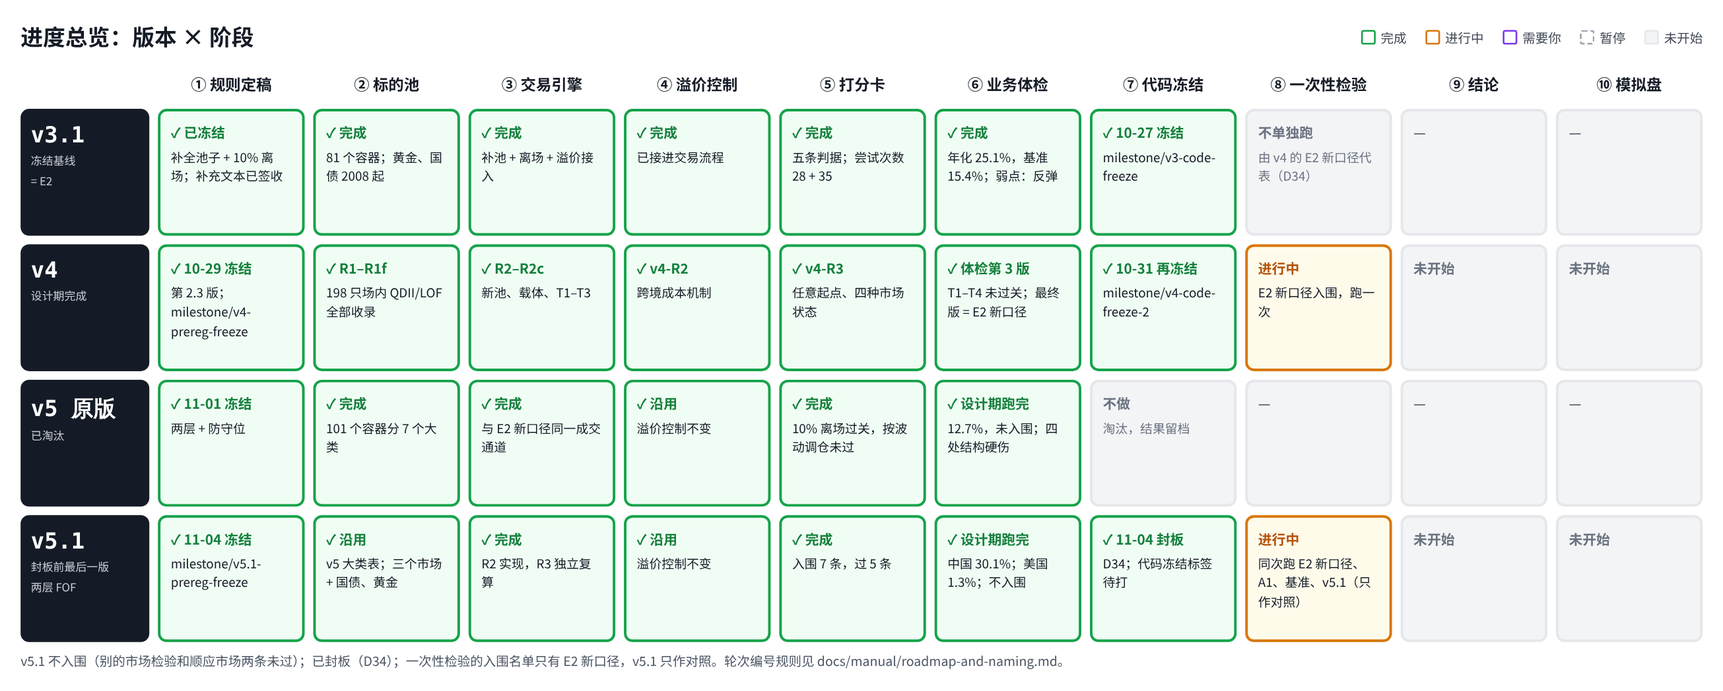
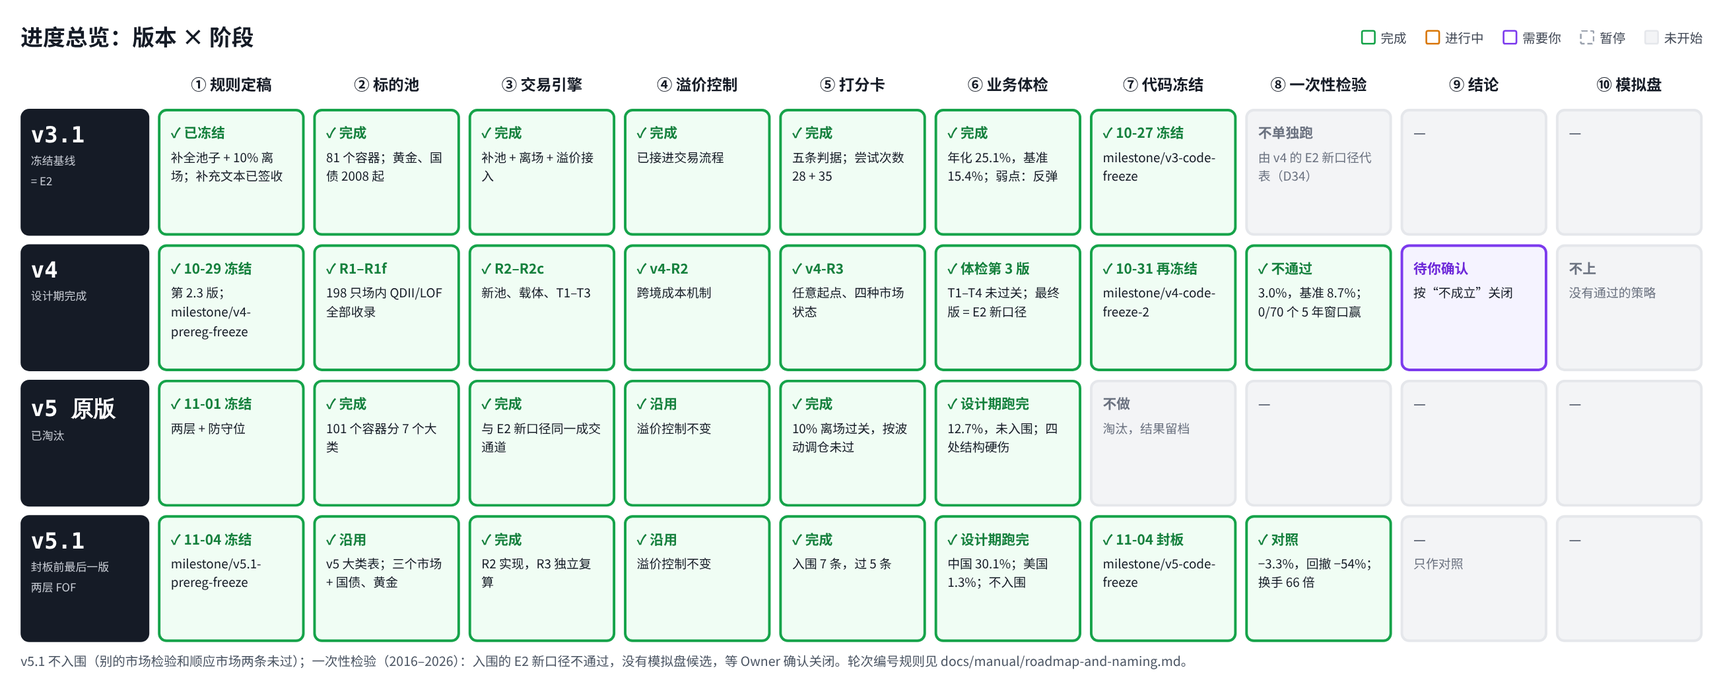
一次性检验报告：E2 新口径不通过；看板同步
只读 Reviewer 签收的 results/v5/oneshot，不重跑。另记：57 只场外基金净值只到 2015-12-31，影响能买到的池子的 A1、v5.1。

Claude-Session: https://claude.ai/code/session_01PmXaEwvnhMrSzwWPeiEpbL

diff --git a/results/v5/report/charts.py b/results/v5/report/charts.py
@@ -1,0 +1,85 @@
+"""一次性检验报告的图（只读 Reviewer 签收的 results/v5/oneshot，不重跑）。
+用法：python results/v5/report/charts.py docs/assets/v5-oneshot
+"""
+import sys, pathlib, json
+ROOT = pathlib.Path(__file__).resolve().parents[3]
+import pandas as pd, numpy as np
+import matplotlib; matplotlib.use('Agg'); import matplotlib.pyplot as plt
+plt.rcParams.update({'font.family': ['Noto Sans CJK SC'], 'axes.unicode_minus': False, 'axes.spines.top': False, 'axes.spines.right': False, 'font.size': 11.5, 'axes.edgecolor': '#9ca3af'})
+INK, MUTED, BLUE, GREY, BAD, GOOD, A1C, TEAL, PURP = '#151b26', '#5d6676', '#1d4ed8', '#9ca3af', '#c2410c', '#15803d', '#d97706', '#0d9488', '#7c3aed'
+OUT = pathlib.Path(sys.argv[1]); O = ROOT / 'results/v5/oneshot'
+def title(fig, t, s):
+    h = fig.get_figheight(); fig.text(.06, 1 + .42 / h, t, fontsize=14.5, weight='bold', color=INK); fig.text(.06, 1 + .12 / h, s, fontsize=10.5, color=MUTED)
+def net(p): return pd.read_csv(p, parse_dates=['date']).set_index('date').net
+S = pd.DataFrame({'E2 新口径': net(O / 'index/E2-B0/net.csv'), 'A1': net(O / 'index/A1/net.csv'), 'A2': net(O / 'index/A2/net.csv'),
+                  'v5.1（对照）': net(O / 'index/v5.1-对照/net.csv'), '基准': net(O / 'benchmarks/BM-main/net.csv'), '沪深300': net(O / 'benchmarks/HS300/net.csv')}).fillna(0)
+cols = {'E2 新口径': BLUE, 'A1': A1C, 'A2': TEAL, 'v5.1（对照）': BAD, '基准': INK, '沪深300': GREY}
+# o1 净值和回撤
+nav = (1 + S).cumprod()
+fig, (ax, bx) = plt.subplots(2, 1, figsize=(13, 6.4), sharex=True, gridspec_kw={'height_ratios': [2.2, 1]})
+for c in nav:
+    lw = 3 if c == 'E2 新口径' else (2.2 if c == '基准' else 1.6)
+    ls = '--' if c == '沪深300' else '-'
+    ax.plot(nav.index, nav[c], color=cols[c], lw=lw, ls=ls)
+    y = nav[c].iloc[-1]; off = {'A1': -.08, '基准': .06, 'A2': 0, 'E2 新口径': -.06, '沪深300': .06}.get(c, 0)
+    ax.text(nav.index[-1] + pd.Timedelta(days=40), y + off, f'{c} {y:.2f} 倍', color=cols[c], fontsize=10.5, va='center', weight='bold' if c in ('E2 新口径', '基准') else None)
+    dd = nav[c] / nav[c].cummax() - 1; bx.plot(dd.index, dd * 100, color=cols[c], lw=lw * .7, ls=ls)
+ax.axhline(1, color=GREY, lw=.8); ax.set_ylabel('净值（2016 年初 = 1）', color=MUTED); ax.grid(axis='y', alpha=.22); ax.set_xlim(nav.index[0], nav.index[-1] + pd.Timedelta(days=620))
+bx.set_ylabel('回撤 %', color=MUTED); bx.grid(axis='y', alpha=.22)
+ax.set_title('① 净值', loc='left', fontsize=12.5, weight='bold', color=INK); bx.set_title('② 回撤', loc='left', fontsize=12.5, weight='bold', color=INK)
+title(fig, '2016–2026：E2 新口径年化 3.0%，基准 8.7%；回撤最浅，但钱几乎没涨',
+      '能排名的池子（过关判定用这个），扣费后，2016-01-04 → 2026-09-30。基准 = 70% 沪深300 + 15% 纳指100 + 15% 标普500，人民币全收益。')
+fig.tight_layout(); fig.savefig(OUT / 'o1-nav.png', dpi=200, bbox_inches='tight', facecolor='white'); plt.close(fig)
+# o2 逐年超额
+yr = (1 + S).groupby(S.index.year).prod() - 1
+ex = yr[['E2 新口径', 'A1']].sub(yr['基准'], axis=0) * 100
+fig, ax = plt.subplots(figsize=(13, 4.4)); x = np.arange(len(ex)); w = .38
+for j, (c, col) in enumerate((('E2 新口径', BLUE), ('A1', A1C))):
+    b = ax.bar(x + (j - .5) * w, ex[c], w, color=col, label=c)
+    if c == 'E2 新口径':
+        for xi, v in zip(x, ex[c]): ax.text(xi - .5 * w, v + (1 if v >= 0 else -1), f'{v:+.0f}', ha='center', va='bottom' if v >= 0 else 'top', fontsize=9.5, color=BLUE, weight='bold')
+ax.axhline(0, color=INK, lw=.9); ax.set_xticks(x); ax.set_xticklabels([f'{y}' + ('\n(到 9 月)' if y == 2026 else '') for y in ex.index]); ax.set_ylabel('比基准多（少）赚，百分点', color=MUTED); ax.grid(axis='y', alpha=.22); ax.legend(frameon=False, loc='lower left')
+title(fig, 'E2 新口径 11 年里只赢了 2018、2022 两个熊市年（和 2026 前九个月）；大涨的年份都输',
+      '每年 E2 新口径（蓝）、A1（橙）减基准的收益。能排名的池子，扣费后。')
+fig.tight_layout(); fig.savefig(OUT / 'o2-yearly.png', dpi=200, bbox_inches='tight', facecolor='white'); plt.close(fig)
+# o3 E2 的仓位：风险、国债、黄金、现金
+h = pd.read_csv(O / 'index/E2-B0/held.csv', parse_dates=['date']).set_index('date')
+bond = [c for c in h if c.startswith('cgb') or '债' in c]
+E = pd.DataFrame({'现金': h.cash, '国债': h[bond].sum(axis=1), '黄金': h['gold']}); E['风险资产'] = 1 - E.sum(axis=1)
+Ey = E.groupby(E.index.year).mean() * 100
+fig, ax = plt.subplots(figsize=(13, 4.6)); bottom = np.zeros(len(Ey))
+for c, col in (('风险资产', BLUE), ('国债', '#93c5fd'), ('黄金', '#fcd34d'), ('现金', '#e5e7eb')):
+    ax.bar(Ey.index, Ey[c], bottom=bottom, color=col, label=c, width=.7)
+    if c == '风险资产':
+        for xi, v in zip(Ey.index, Ey[c]): ax.text(xi, 6, f'{v:.0f}%', ha='center', color='white', fontsize=10, weight='bold')
+    bottom += Ey[c].values
+bx = ax.twinx(); bx.plot(yr.index, yr['基准'] * 100, color=INK, lw=2, marker='o'); bx.set_ylabel('基准当年收益 %（黑线）', color=INK); bx.spines['right'].set_visible(True); bx.axhline(0, color=GREY, lw=.6, ls=':')
+ax.set_ylabel('E2 新口径平均仓位 %', color=MUTED); ax.set_ylim(0, 100); ax.legend(frameon=False, ncol=4, loc='upper left', bbox_to_anchor=(0, -.08))
+title(fig, '为什么输：国债常年占三成，基准大涨的 2019 年风险资产只有 46%',
+      'E2 新口径每年平均持仓结构（能排名的池子）。“涨幅 ÷ 波动”的尺子让波动小的国债排到股票前面。')
+fig.tight_layout(); fig.savefig(OUT / 'o3-exposure.png', dpi=200, bbox_inches='tight', facecolor='white'); plt.close(fig)
+# o4 设计期 vs 检验期：相对基准的年化超额
+H = json.loads((ROOT / 'results/v5.1/report/health.json').read_text())['index']
+cg = lambda r: ((1 + r).prod() ** (252 / len(r)) - 1) * 100
+cur = {k: cg(S[k]) - cg(S['基准']) for k in ('E2 新口径', 'A1', 'A2', 'v5.1（对照）')}
+d = {'E2 新口径': (H['E2 新口径']['S1'] - 22.3, H['E2 新口径']['S2'] - 9.4), 'A1': (H['A1']['S1'] - 22.3, H['A1']['S2'] - 9.4),
+     'A2': (14.5 - 22.3, 3.5 - 9.4), 'v5.1（对照）': (H['v5.1']['S1'] - 22.3, H['v5.1']['S2'] - 9.4)}
+fig, ax = plt.subplots(figsize=(13, 4.6)); x = np.arange(4); w = .26; names = list(d)
+for j, (lab, col) in enumerate((('2006–2010（设计期）', '#cbd5e1'), ('2011–2015（设计期）', '#93c5fd'), ('2016–2026（一次性检验）', BLUE))):
+    vals = [d[k][j] if j < 2 else cur[k] for k in names]
+    ax.bar(x + (j - 1) * w, vals, w, color=col, label=lab)
+    for xi, v in zip(x, vals): ax.text(xi + (j - 1) * w, v + (.5 if v >= 0 else -.5), f'{v:+.1f}', ha='center', va='bottom' if v >= 0 else 'top', fontsize=9.5, color=INK if j == 2 else MUTED, weight='bold' if j == 2 else None)
+ax.axhline(0, color=INK, lw=.9); ax.set_xticks(x); ax.set_xticklabels(names); ax.set_ylabel('相对基准的年化超额，百分点', color=MUTED); ax.grid(axis='y', alpha=.22); ax.legend(frameon=False, loc='lower left')
+title(fig, '设计期的优势没有延续：四个策略到 2016 年以后全部跑输基准',
+      '能排名的池子，扣费后。每组三根柱 = 前五年、后五年、一次性检验段，各自相对同期基准的年化超额。')
+fig.tight_layout(); fig.savefig(OUT / 'o4-decay.png', dpi=200, bbox_inches='tight', facecolor='white'); plt.close(fig)
+# o5 每个起点持有 5 年
+fig, ax = plt.subplots(figsize=(13, 4.2))
+for a, c, lw in (('E2-B0', BLUE, 2.6), ('A1', A1C, 1.8), ('A2', TEAL, 1.6)):
+    w5 = pd.read_csv(O / f'index/{a}/criterion-1-windows.csv', parse_dates=['start']); w5 = w5[w5.months == 60]
+    ax.plot(w5.start, w5.excess * 100, color=c, lw=lw, label={'E2-B0': 'E2 新口径', 'A1': 'A1', 'A2': 'A2'}[a])
+ax.axhline(0, color=INK, lw=.9); ax.grid(axis='y', alpha=.22); ax.set_ylabel('持有 5 年的年化超额，百分点', color=MUTED); ax.legend(frameon=False)
+title(fig, '任何一个月初买入 E2 新口径、持有 5 年，都没有跑赢基准（70 个起点，0 个赢）',
+      '横轴 = 买入月份（2016-01 到 2021-10），纵轴 = 持有 60 个月相对基准每年多（少）赚多少。能排名的池子。')
+fig.tight_layout(); fig.savefig(OUT / 'o5-anystart.png', dpi=200, bbox_inches='tight', facecolor='white'); plt.close(fig)
+print(ex.round(1).to_string()); print({k: round(v, 1) for k, v in cur.items()}); print(Ey.round(0).to_string())

diff --git a/docs/assets/owner-board/src/roadmap.py b/docs/assets/owner-board/src/roadmap.py
@@ -2,9 +2,9 @@
 cols=['① 规则定稿','② 标的池','③ 交易引擎','④ 溢价控制','⑤ 打分卡','⑥ 业务体检','⑦ 代码冻结','⑧ 一次性检验','⑨ 结论','⑩ 模拟盘']
 D,P,Y,W,N='done','prog','you','wait','none'
 rows=[('v3.1','冻结基线<br>= E2',[(D,'✓ 已冻结','补全池子 + 10% 离场；补充文本已签收'),(D,'✓ 完成','81 个容器；黄金、国债 2008 起'),(D,'✓ 完成','补池 + 离场 + 溢价接入'),(D,'✓ 完成','已接进交易流程'),(D,'✓ 完成','五条判据；尝试次数 28 + 35'),(D,'✓ 完成','年化 25.1%，基准 15.4%；弱点：反弹'),(D,'✓ 10-27 冻结','milestone/v3-code-freeze'),(N,'不单独跑','由 v4 的 E2 新口径代表（D34）'),(N,'—',''),(N,'—','')]),
-('v4','设计期完成',[(D,'✓ 10-29 冻结','第 2.3 版；milestone/v4-prereg-freeze'),(D,'✓ R1–R1f','198 只场内 QDII/LOF 全部收录'),(D,'✓ R2–R2c','新池、载体、T1–T3'),(D,'✓ v4-R2','跨境成本机制'),(D,'✓ v4-R3','任意起点、四种市场状态'),(D,'✓ 体检第 3 版','T1–T4 未过关；最终版 = E2 新口径'),(D,'✓ 10-31 再冻结','milestone/v4-code-freeze-2'),(P,'进行中','E2 新口径入围，跑一次'),(N,'未开始',''),(N,'未开始','')]),
+('v4','设计期完成',[(D,'✓ 10-29 冻结','第 2.3 版；milestone/v4-prereg-freeze'),(D,'✓ R1–R1f','198 只场内 QDII/LOF 全部收录'),(D,'✓ R2–R2c','新池、载体、T1–T3'),(D,'✓ v4-R2','跨境成本机制'),(D,'✓ v4-R3','任意起点、四种市场状态'),(D,'✓ 体检第 3 版','T1–T4 未过关；最终版 = E2 新口径'),(D,'✓ 10-31 再冻结','milestone/v4-code-freeze-2'),(D,'✓ 不通过','3.0%，基准 8.7%；0/70 个 5 年窗口赢'),(Y,'待你确认','按“不成立”关闭'),(N,'不上','没有通过的策略')]),
 ('v5 原版','已淘汰',[(D,'✓ 11-01 冻结','两层 + 防守位'),(D,'✓ 完成','101 个容器分 7 个大类'),(D,'✓ 完成','与 E2 新口径同一成交通道'),(D,'✓ 沿用','溢价控制不变'),(D,'✓ 完成','10% 离场过关，按波动调仓未过'),(D,'✓ 设计期跑完','12.7%，未入围；四处结构硬伤'),(N,'不做','淘汰，结果留档'),(N,'—',''),(N,'—',''),(N,'—','')]),
-('v5.1','封板前最后一版<br>两层 FOF',[(D,'✓ 11-04 冻结','milestone/v5.1-prereg-freeze'),(D,'✓ 沿用','v5 大类表；三个市场 + 国债、黄金'),(D,'✓ 完成','R2 实现，R3 独立复算'),(D,'✓ 沿用','溢价控制不变'),(D,'✓ 完成','入围 7 条，过 5 条'),(D,'✓ 设计期跑完','中国 30.1%；美国 1.3%；不入围'),(D,'✓ 11-04 封板','D34；代码冻结标签待打'),(P,'进行中','同次跑 E2 新口径、A1、基准、v5.1（只作对照）'),(N,'未开始',''),(N,'未开始','')])]
+('v5.1','封板前最后一版<br>两层 FOF',[(D,'✓ 11-04 冻结','milestone/v5.1-prereg-freeze'),(D,'✓ 沿用','v5 大类表；三个市场 + 国债、黄金'),(D,'✓ 完成','R2 实现，R3 独立复算'),(D,'✓ 沿用','溢价控制不变'),(D,'✓ 完成','入围 7 条，过 5 条'),(D,'✓ 设计期跑完','中国 30.1%；美国 1.3%；不入围'),(D,'✓ 11-04 封板','milestone/v5-code-freeze'),(D,'✓ 对照','−3.3%，回撤 −54%；换手 66 倍'),(N,'—','只作对照'),(N,'—','')])]
 css='''body{margin:0;background:#fff;font-family:"Noto Sans CJK SC",sans-serif;color:#151b26}
 .w{width:1960px;padding:24px}.h{display:flex;justify-content:space-between;align-items:center;margin-bottom:18px}
 .t{font-size:26px;font-weight:700}.lg span{margin-left:22px;font-size:15px;color:#3f4653}.lg i{display:inline-block;width:13px;height:13px;border:2px solid;border-radius:3px;margin-right:6px;vertical-align:-2px}
@@ -19,5 +19,5 @@ h=f'<!doctype html><meta charset=utf-8><style>{css}</style><div class=w id=r><di
 h+=''.join(f'<div class=ch>{c}</div>' for c in cols)
 for v,sub,cells in rows:
     h+=f'<div class=v><b>{v}</b><small>{sub}</small></div>'+''.join(f'<div class="c {k}"><b>{a}</b>{b}</div>' for k,a,b in cells)
-h+='</div><div class=f>v5.1 不入围（别的市场检验和顺应市场两条未过）；已封板（D34）；一次性检验的入围名单只有 E2 新口径，v5.1 只作对照。轮次编号规则见 docs/manual/roadmap-and-naming.md。</div></div>'
+h+='</div><div class=f>v5.1 不入围（别的市场检验和顺应市场两条未过）；一次性检验（2016–2026）：入围的 E2 新口径不通过，没有模拟盘候选，等 Owner 确认关闭。轮次编号规则见 docs/manual/roadmap-and-naming.md。</div></div>'
 open('rm.html','w').write(h)

diff --git a/docs/owner/v5-oneshot-report.md b/docs/owner/v5-oneshot-report.md
@@ -1,0 +1,208 @@
+# 一次性检验报告：E2 新口径没有通过，2016 年以后十年没跑赢基准
+
+## Metadata
+
+- Project: ETF_Rotation_Quant
+- Document type: owner（v5 一次性检验结论）
+- Status: active（第 1 版；Reviewer 签收；三件事待 Owner 决定）
+- Owner: L. Loric
+- Maintainer: Orchestrator
+- Date: 2026-11-04
+- 依据：`results/v5/oneshot/`；`results/v5/LOCK`；`operations/reviews/2026-11-04-v5-oneshot-signoff.md`；D27、D34；图 `results/v5/report/charts.py`
+- 页面：Claude 页面“一次性检验报告”；本文件是仓库镜像
+
+---
+
+**项目愿景**　在动态周期内，从多类资产里选出 Top N 强势 ETF 轮动持有，获得超额收益、稳定跑赢被动基准，同时把回撤控制住。
+
+| 进度 | 结论 | 需要你 |
+| --- | --- | --- |
+| 一次性检验跑完一次，Reviewer 独立复算签收。冻结代码的设计期结果逐位复现，判据表 12 行全部一致。 | E2 新口径年化 **3.0%**，基准 **8.7%**。任何月初买入持有 5 年，**70 个起点 0 个**跑赢。判据 ① ⑥ 都不通过，没有可以上模拟盘的策略。 | **三件事**：确认按纪律关闭；批准补齐场外基金净值；定下一步怎么走。见第 8 节。 |
+
+<details>
+<summary>先认识这几个名字：E2 新口径、A1、A2、v5.1、基准、两个池子</summary>
+
+| 问题 | 回答 |
+| --- | --- |
+| **E2 新口径** | 唯一入围的策略（v4 最终版）。看 1、3、6、12 个月四个回看期，只买跑赢现金的，按“涨幅 ÷ 波动”取前 N 名、各 1/N，单只跌 10% 就卖；周、月 × N = 3/5/8 六路平均。 |
+| **A1 双动量** | 公开同行。每月末标普500 跑赢现金，就在标普500 和沪深300 里拿更强的一个，全仓；否则拿 10 年国债。 |
+| **A2 五腿均线** | 公开同行。沪深300、标普500、恒生、10 年国债、黄金各 1/5，跌破 10 个月均线的那腿换成现金。 |
+| **v5.1** | v5 最后一版，设计期没入围（别的市场检验没过）。这次只作对照，结果再好也不能入围。 |
+| **基准** | 70% 沪深300 + 15% 纳指100 + 15% 标普500，全收益、人民币，每月再平衡。 |
+| **两个池子** | **能排名的池子**：有指数数据就能参加，**过关判定只看它**。**能买到的池子**：只排当年真有基金能买的。 |
+
+全部扣费后。检验段 2016-01-01 → 2026-09-30 是已污染检验段（v2 用过），只能跑一次，不能称为样本外。
+
+</details>
+
+## 1. 结论：入围的 E2 新口径没通过，四个策略都没跑赢基准
+
+> **E2 新口径回撤最浅（−15%），但十年只赚了 35%，基准赚了 137%。四个策略全部跑输基准；最接近的是 A1，和基准几乎一样，回撤却深得多。**
+
+![一次性检验段的净值和回撤](../assets/v5-oneshot/o1-nav.png)
+
+| 能排名的池子，2016–2026 | 年化 | 最大回撤 | 年化 ÷ 回撤 | 判定 |
+| --- | --- | --- | --- | --- |
+| **基准** | 8.7% | −26% | 0.33 | — |
+| **E2 新口径**（入围） | **3.0%** | **−15%** | 0.20 | **不通过** |
+| 对照：不参加判定 | | | | |
+| A1 双动量 | 8.6% | −40% | 0.22 | 和基准打平 |
+| A2 五腿均线 | 7.2% | **−10%** | **0.74** | 少赚，但回撤最浅 |
+| v5.1 | **−3.3%** | **−54%** | — | 亏钱 |
+| 沪深300 · 标普500 · 纳指100 | 4.0% · 15.9% · 21.4% | −42% · −33% · −29% | — | 单一指数 |
+
+能买到的池子：E2 新口径 2.0%、A2 5.9%；A1 和 v5.1 的数字受数据缺口影响，不可用（第 7 节）。
+
+## 2. 过关：① 和 ⑥ 都没过，而且差得很远
+
+> **这不是擦边。持有 5 年，70 个起点里一个都没赢基准，中位数每年少 4.8 个点。**
+
+| 判据 | 要求 | E2 新口径 | 判定 |
+| --- | --- | --- | --- |
+| **① 稳定跑赢基准** | 持有 3 年，年化超额的中位数 > 0 | **−6.8** 个点（94 个起点） | **不通过** |
+| 持有 5 年，年化超额的中位数 > 0，多数起点为正 | **−4.8** 个点；正的起点 **0 / 70** |
+| **⑥ 顺应市场** | 牛市累计超额 ≥ 0 | **−78**（51 个月） | **不通过** |
+| 反弹月超额的 t 值 ≥ −2（D33-3） | **−3.25**（23 个月） |
+| **⑤ 尝试次数** | 按次数打折扣报告 | 115 次（v3 起累计） | ① 没过，不用再算折扣 |
+
+![每个起点持有 5 年，E2 新口径、A1、A2 相对基准的年化超额](../assets/v5-oneshot/o5-anystart.png)
+
+| 四种行情（相对基准累计超额） | 月数 | E2 新口径 | A1 | A2 | 读法 |
+| --- | --- | --- | --- | --- | --- |
+| **牛市** | 51 | −78 | −30 | −101 | 三个都输，E2 输在仓位不满 |
+| **回调** | 25 | +7 | 0 | +35 | E2 的离场线这十年几乎没帮上 |
+| **熊市** | 30 | +66 | +87 | +98 | 都赢，靠国债和现金 |
+| **反弹** | 23 | −56 | −53 | −56 | 趋势规则天生落后，三个一样 |
+
+能排名的池子。行情按沪深300 过去 12 个月和这个月的涨跌划分。合计 = 该行情所有日子相对基准的日超额之和（百分点）。
+
+## 3. 逐年：只赢了两个熊市年，大涨的年份都输
+
+> **2018、2022 年跌的时候 E2 新口径多赚 7、16 个点；2019、2020 年基准涨 39%、28%，它只涨 8%、10%，两年少赚 50 个点。**
+
+![每年 E2 新口径和 A1 相对基准的超额](../assets/v5-oneshot/o2-yearly.png)
+
+| 年份 | E2 新口径 | A1 | A2 | 基准 | 沪深300 |
+| --- | --- | --- | --- | --- | --- |
+| 2016 | −8.2% | 6.6% | 11.0% | −1.7% | −9.3% |
+| 2017 | 15.6% | 14.7% | 12.2% | 23.0% | 24.3% |
+| 2018 | **−9.0%** | −16.9% | 0.3% | −16.5% | −23.6% |
+| 2019 | **7.8%** | 20.6% | 9.8% | 39.2% | 39.2% |
+| 2020 | **9.9%** | 0.0% | 5.3% | 28.5% | 29.9% |
+| 2021 | 1.0% | 16.6% | 2.8% | 5.1% | −3.5% |
+| 2022 | **−2.4%** | −15.0% | 0.1% | −18.6% | −19.8% |
+| 2023 | −0.2% | 23.1% | 3.7% | 4.6% | −9.1% |
+| 2024 | **6.7%** | 27.1% | 11.6% | 21.8% | 18.2% |
+| 2025 | 10.7% | 23.5% | 21.7% | 20.1% | 21.0% |
+| 2026（到 9 月） | 1.7% | 0.4% | −1.6% | 0.4% | −4.1% |
+
+能排名的池子，扣费后。绿、橙标出 E2 新口径明显赢、明显输基准的年份。
+
+## 4. 为什么输：国债排在股票前面，剩下的钱又分得太散
+
+> **这正是五步法在跑之前推出来的弱点（《v5 研究备忘》第 1 节）：“涨幅 ÷ 波动”让波动小的国债排到股票前面。十年里平均三成的钱在国债，2019 年风险资产只有 46%。**
+
+![E2 新口径每年的平均持仓结构](../assets/v5-oneshot/o3-exposure.png)
+
+① 国债挤掉了股票
+
+2019 年沪深300 涨了 39%，但它一路小幅上涨的国债“涨幅 ÷ 波动”更高，E2 有 42% 在国债。股票越涨得猛、波动越大，在这把尺子上反而越吃亏。
+
+② 剩下的钱分得太散
+
+2016 年以后池子里有约 100 个容器，多数是海外和行业主题。2017 年它 98% 在风险资产，还是比基准少赚 7 个点：钱平均分在 26 个容器上，最大的一只只有 12%，没有集中在当年最强的那几个。
+
+③ 成本
+
+每年双边换手约 20 倍，成本每年约 2.2 个点。扣费前年化 5.2%，仍然远低于基准 8.7%，所以成本不是主因。
+
+## 5. 设计期的优势为什么没延续：靠的是 2006–2010 那种单边大行情
+
+> **E2 新口径设计期前五年每年多赚 19.6 个点，后五年只剩 0.5，到检验段变成每年少 5.7。这条衰减线其实在设计期就看得见。**
+
+![四个策略在三段时间里相对基准的年化超额](../assets/v5-oneshot/o4-decay.png)
+
+- **优势集中在一段行情里**：设计期的超额几乎全部来自 2006–2010 年的大牛大熊。那时候趋势一口气走到底，跟着强者走就能赚。2011 年以后趋势变短，E2 新口径就基本没有超额了。[《v4 体检报告》](v4-health-check.md)第 6 节当时已经写了“后五年刚好打平”。
+- **2016 年以后，基准里的美股是主力**：沪深300 十年只有 4.0%，标普500、纳指100 有 16%、21%。基准每年再平衡，被动拿住了美股这一大段慢牛；E2 新口径要等它在排名里胜出才买，买进来又被国债分走一部分。
+- **一条教训**：设计期十年里，独立的大行情只有十来次。“两段都要赢”的门槛是对的；当时 E2 新口径后五年 +0.5 就已经是警告，只是按规则它是唯一的入围者。
+
+## 6. 对照：A1 和基准打平，A2 回撤最浅，v5.1 证明当初挡下它是对的
+
+> **对照只用来诊断，不改判。它们说明了三件事：简单规则没有输、低回撤是可以做到的、高换手在平缓市场里一定亏。**
+
+A1 双动量
+
+8.6% · −40%
+
+年化和基准打平。持有 5 年 47% 的起点赢基准，2019 年以后买入的多数赢。但 2020 年 3 月一次回撤 −40%，比基准深得多。
+
+A2 五腿均线
+
+7.2% · −10%
+
+少赚 1.5 个点，但最大回撤只有基准的四成，年化 ÷ 回撤 0.74，是唯一一个明显高于基准（0.33）的。设计期它是最差的一个（年化 8.9%）。
+
+v5.1
+
+−3.3% · −54%
+
+每年双边换手 66 倍、成本 6.4 个点，扣费前也只有 3.2%。和美国 ETF 上的结果一样：平缓的市场里，来回切换只是付成本。别的市场检验把它挡在外面是对的。
+
+单一指数
+
+美股 16–21%
+
+这十年最大的收益来自美股慢牛；A 股（沪深300）只有 4.0%。所有策略都没能比基准更好地拿住美股这一段。
+
+**不能事后挑**：A2 在这一段回撤最浅，但这是看过结果之后的发现。按纪律（D27-5），它只能算“设计证据”，不能直接拿来上模拟盘。
+
+## 7. 结果靠得住吗：过关结论靠得住；能买到的池子有一处数据缺口
+
+> **代码、判据、数据窗口都按冻结规则执行，Reviewer 独立复算一致。复查时我另外发现：57 只场外基金的净值只取到了 2015 年底，能买到的池子里 A1 和 v5.1 的数字因此不可用。过关只看能排名的池子，不受影响。**
+
+| 检查 | 结果 | 判定 |
+| --- | --- | --- |
+| **先锁后跑** | LOCK 合入 main（0b6ac9e）之后才运行；运行入口只允许跑一次，已写 `ran.json` | **符合** |
+| **运行代码和冻结代码** | 运行代码比冻结标签多了“打开 2016 年以后窗口”的开关。Reviewer 用运行代码重跑设计期，四个策略、两个池子共 8 条逐日净值和冻结结果**逐位一致** | **已证明不改规则** |
+| **判据表** | Reviewer 只读净值、独立实现，12 行全部列一致；我另外重算了年化、回撤、5 年窗口、反弹 t 值，也一致 | **一致** |
+| **基准** | 沪深300 全收益 2016 年 −9.3%、2019 年 +39.2%、2022 年 −19.8%；标普500 人民币 2016 年 +19%（美元 +12% 加人民币贬值），和公开数字对得上 | **核对过** |
+| **能买到的池子** | 57 只场外基金的复权净值只取到 2015-12-31（场内 ETF 成交额不够时，备选的就是它们）。v5.1 在 2016–2017 年有 488 个交易日“持有”美股却收益为 0，A1 有 109 天；A1 在 2016 年初到 2017 年中多数时间拿现金 | **A1、v5.1 不可用** |
+| **判据 ⑤ 次数** | 按冻结的写法记 115 次；v5、v5.1 的设计期账本另有 30 行没有计入。① 没过，不影响结论，账本里补记 | **登记** |
+| **期望线** | D27-3 要求看结果前定稿，这一步没做。过关看的是预注册写死的 ① ⑥，不受影响 | **如实记录** |
+
+- **数据缺口为什么不改结论**：过关只看能排名的池子，它用的是指数序列，不用场外基金净值。E2 新口径在能买到的池子里没有“持有却零收益”的日子，A2 也没有。只有 A1 和 v5.1 会切到这些场外基金上。
+- **为什么 Reviewer 没发现**：它核对的是“输出和规则一致”，规则确实是“没有价格就不能买”。问题出在数据覆盖范围，不在程序。以后每次跑 2016 年以后，先查载体序列的最后日期。
+
+## 8. 需要你定的三件事
+
+> **我的建议：按纪律关闭，补数据，暂不急着开 v6。核心配置继续照常执行。**
+#### 1：确认结论：第二阶段的轮动研究按“不成立”关闭
+
+| 选项 | 说明 |  |
+| --- | --- | --- |
+| 关闭，如实记录 **建议** | E2 新口径不通过，没有模拟盘候选。记为第 3 次尝试“不成立”（第 1 次 V1 轮动、第 2 次 A 股择时）。依据：不是擦边（0/70，每年少 5.7 个点）；代码逐位复现、判据独立复算；预注册写死的规则，不能事后放宽。置信度高。 | ⭐ 建议 |
+| 不关闭，换个判据再看 | 不建议。检验只能跑一次，看到结果再改判据，就是这个项目一直在防的事。 |  |
+
+#### 2：补齐 57 只场外基金 2016 年以后的净值
+
+| 选项 | 说明 |  |
+| --- | --- | --- |
+| 补数据，不重跑一次性检验 **建议** | Dev 按数据原则补数、记 SHA256。能买到的池子 2016 年以后的数字，以后在 v6 里作为“设计证据”重算（D27-5），不当作第二次一次性检验。 | ⭐ 建议 |
+| 补完后登记重跑能买到的池子 | 可以，但要你按 LOCK 第 4 条批准登记。它不改变过关结论，价值只是让 A1、v5.1 的对照数字完整。 |  |
+
+#### 3：下一步怎么走
+
+| 选项 | 说明 |  |
+| --- | --- | --- |
+| 先停下来，写一页复盘，再决定要不要开 v6 **建议** | 三次尝试都没成立，说明问题可能不在参数，而在“跟着强弱轮动”这件事在这十年的中国市场上本身就难赚到超额。复盘回答：愿景里“稳定跑赢基准”和“控制回撤”，这十年哪一个更现实。A2 的低回撤和 A1 的打平都是线索，但都是看过结果之后的线索。 | ⭐ 建议 |
+| 直接开 v6 | 按 D27-5：可以用 2016 年以后的历史做设计，但要过别的市场检验和至少 6 个月并行模拟，小资金起步。 |  |
+| 转向期权研究 | 之前排在待办里的期权研究备忘，可以提前。 |  |
+
+<details>
+<summary>数据来源</summary>
+
+- 结果：`results/v5/oneshot/`（运行代码 e4ccbc3，合入后为 6843df1；冻结标签 `milestone/v5-code-freeze` → 8970bcb；数据库 SHA256 167d4e39…）。
+- 签收：`operations/reviews/2026-11-04-v5-oneshot-signoff.md`、附录 `…-appendix-a1-cash.md`；设计期逐位复现 `operations/reviews/diag/v51/v5-oneshot-design-bitmatch-e4ccbc3.json`。
+- 图：`results/v5/report/charts.py`，只读签收结果。设计期的数字引用《v5.1 体检报告》和[《v4 体检报告》](v4-health-check.md)。
+
+</details>
